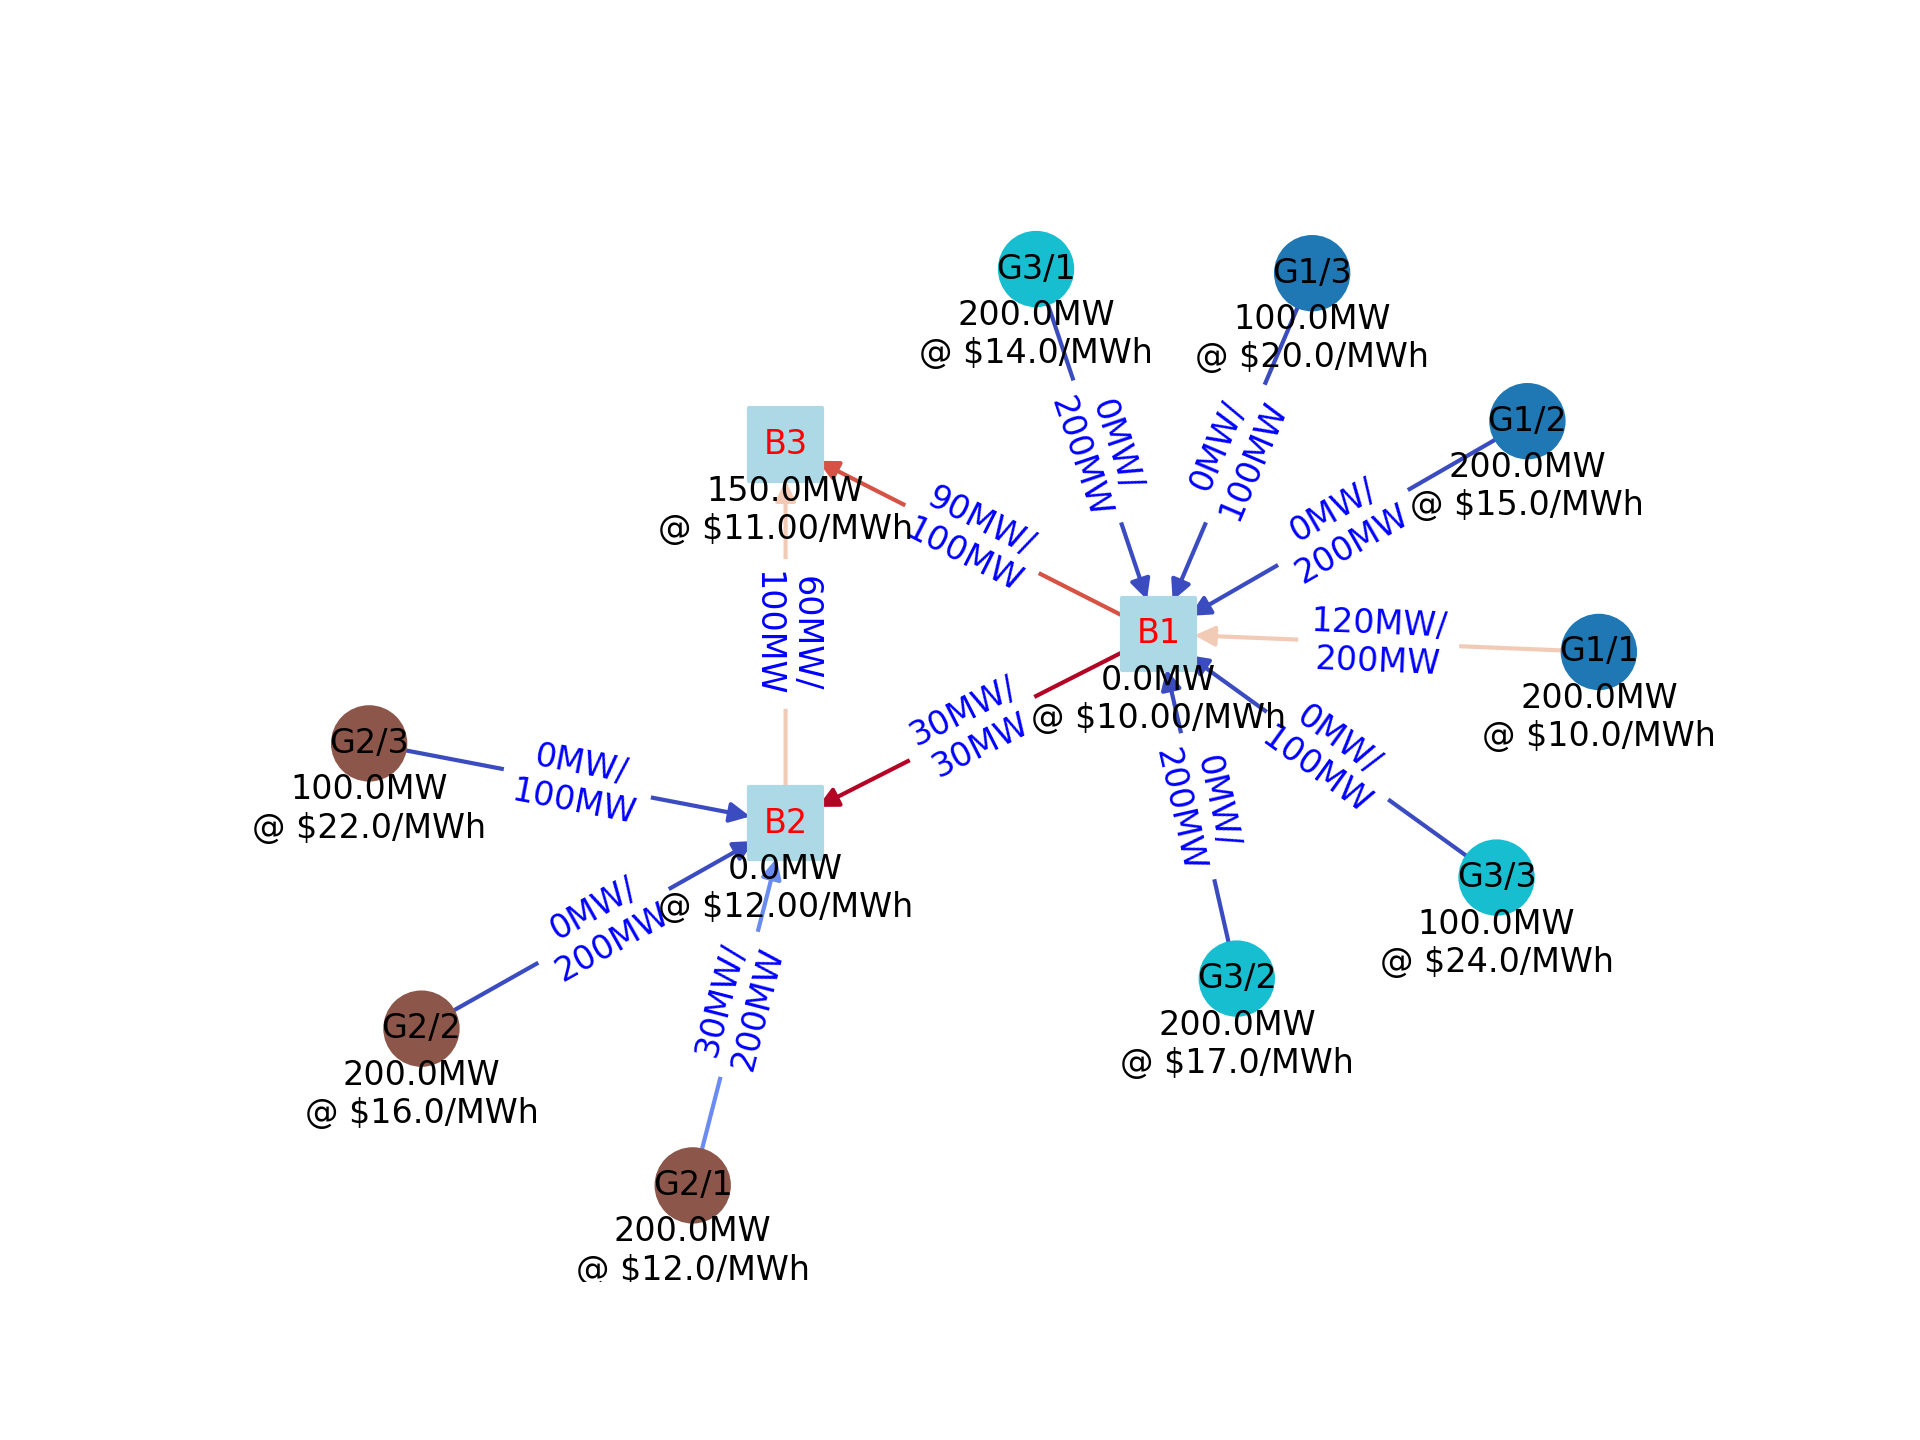
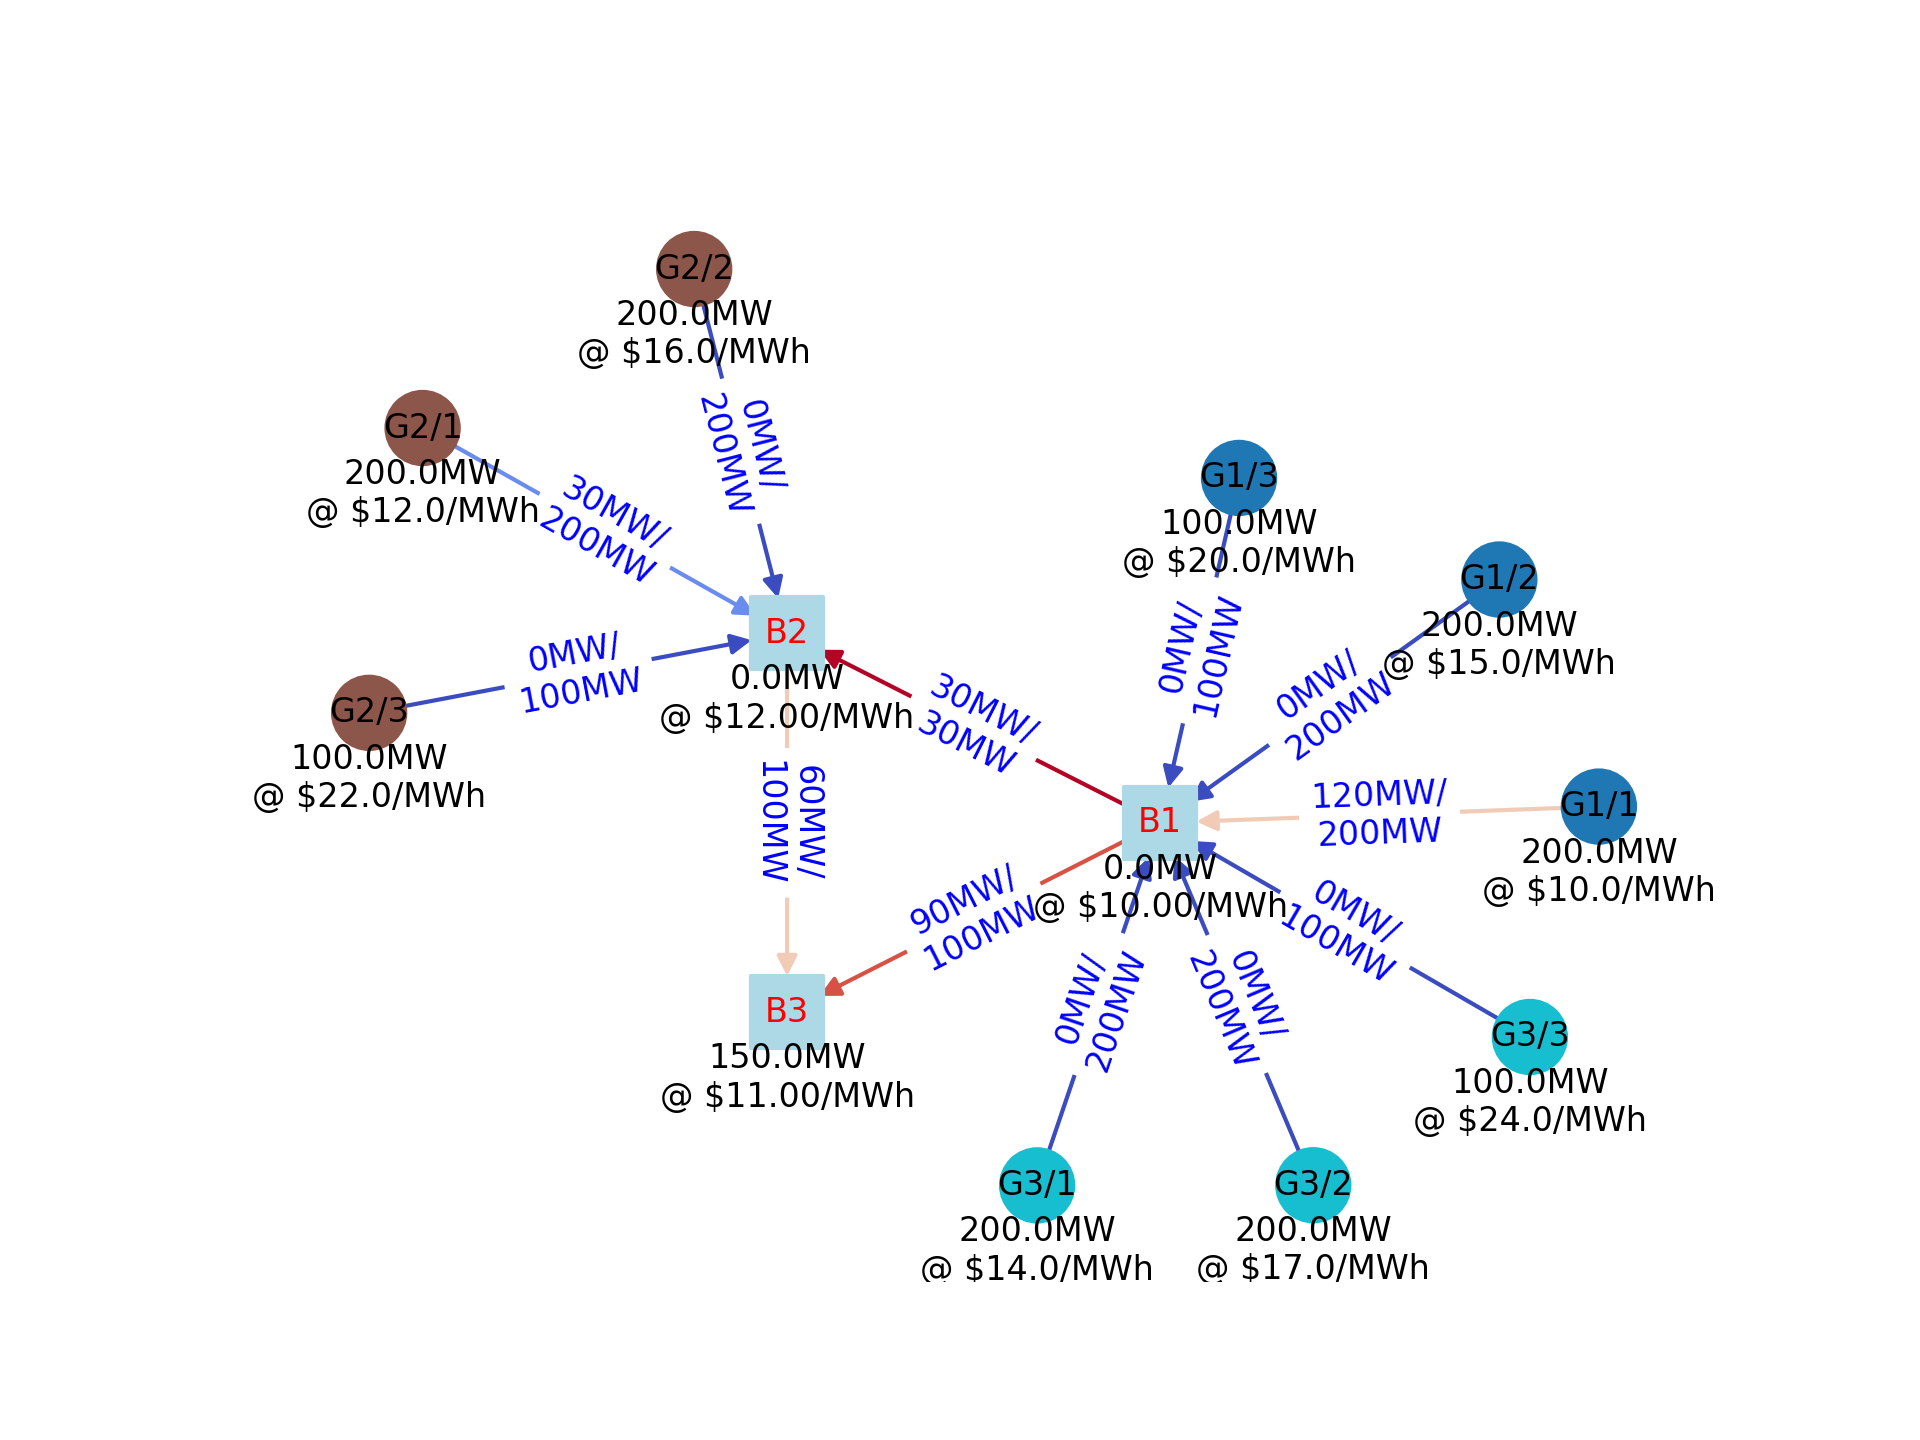
Minor tweaks in network.py

diff --git a/network.py b/network.py
@@ -11,43 +11,45 @@ import pyomo.environ as pyo
 from pyomo.core import Model
 from pyomo.core.expr.relational_expr import EqualityExpression
 
-# Prevent truncation of tall tables ==========================================
+# Prevent truncation of tall tables
 IPython.core.interactiveshell.InteractiveShell.ast_node_interactivity = "all"
 pl.Config.set_tbl_rows(-1)  # "unlimited rows"
 
-# Units of measure ===========================================================
+# Units of measure
 Id: TypeAlias = pl.String
 MW: TypeAlias = pl.Float64
 MWPerRad: TypeAlias = pl.Float64
 USDPerMWh: TypeAlias = pl.Float64
 
-# Network data ===============================================================
+# Network data
 buses = pl.DataFrame(
-    [
-        {"id": "B1", "load": 0.0},
-        {"id": "B2", "load": 0.0},
-        {"id": "B3", "load": 150.0},
-    ],
+    {
+        "id": ["B1", "B2", "B3"],
+        "load": [0.0, 0.0, 150.0],
+    },
     schema={"id": Id, "load": MW},
 )
-generators = pl.DataFrame(
-    [  # excludes "capacity", "cost"!
-        {"id": "G1", "node_id": "B1"},
-        {"id": "G2", "node_id": "B2"},
-        {"id": "G3", "node_id": "B1"},
-    ],
-    schema={"id": Id, "node_id": Id},
+generators = pl.DataFrame(  # excludes "capacity", "cost"!
+    {
+        "id": ["G1", "G2", "G3"],
+        "bus_id": ["B1", "B2", "B1"],
+    },
+    schema={"id": Id, "bus_id": Id},
 )
 
 lines = pl.DataFrame(
-    # fmt: off
-    [
-        {"from_bus_id": "B1", "to_bus_id": "B2", "susceptance": 1000, "capacity": 30.0},
-        {"from_bus_id": "B1", "to_bus_id": "B3", "susceptance": 1000, "capacity": 100.0},
-        {"from_bus_id": "B2", "to_bus_id": "B3", "susceptance": 1000, "capacity": 100.0},
-    ],
-    schema={"from_bus_id": Id, "to_bus_id": Id, "susceptance": MWPerRad, "capacity": MW},
-    # fmt: on
+    {
+        "from_bus_id": ["B1", "B1", "B2"],
+        "to_bus_id": ["B2", "B3", "B3"],
+        "susceptance": [1000, 1000, 1000],
+        "capacity": [30.0, 100.0, 100.0],
+    },
+    schema={
+        "from_bus_id": Id,
+        "to_bus_id": Id,
+        "susceptance": MWPerRad,
+        "capacity": MW,
+    },
 )
 
 # Ensure edge pairs are consistely ordered to simplify look-ups
@@ -58,18 +60,12 @@ lines = lines.with_columns(
 )
 
 offers = pl.DataFrame(
-    [
-        {"generator_id": "G1", "max_quantity": 200.0, "price": 10.00},
-        {"generator_id": "G2", "max_quantity": 200.0, "price": 12.00},
-        {"generator_id": "G3", "max_quantity": 200.0, "price": 14.00},
-        {"generator_id": "G1", "max_quantity": 100.0, "price": 20.00},
-        {"generator_id": "G2", "max_quantity": 100.0, "price": 22.00},
-        {"generator_id": "G3", "max_quantity": 100.0, "price": 24.00},
-        {"generator_id": "G1", "max_quantity": 200.0, "price": 15.00},
-        {"generator_id": "G2", "max_quantity": 200.0, "price": 16.00},
-        {"generator_id": "G3", "max_quantity": 200.0, "price": 17.00},
-    ],
-    schema={"id": Id, "generator_id": Id, "max_quantity": MW, "price": USDPerMWh},
+    {
+        "generator_id": ["G1", "G2", "G3", "G1", "G2", "G3", "G1", "G2", "G3"],
+        "max_quantity": [200.0, 200.0, 200.0, 100.0, 100.0, 100.0, 200.0, 200.0, 200.0],
+        "price": [10.00, 12.00, 14.00, 20.00, 22.00, 24.00, 15.00, 16.00, 17.00],
+    },
+    schema={"generator_id": Id, "max_quantity": MW, "price": USDPerMWh},
 ).sort(by=["generator_id", "price"])
 
 # Unique identifier for each offer
@@ -79,13 +75,13 @@ for column in [
 ]:
     offers = offers.with_columns(column)
 
-# Index sets =================================================================
+# Index sets
 Buses = range(buses.height)
 Lines = range(lines.height)
 Offers = range(offers.height)
 Generators = range(generators.height)
 
-# Model parameters ===========================================================
+# Model parameters
 model = pyo.ConcreteModel()
 model.loads = pyo.Param(
     Buses, initialize={b: buses[b, "load"] for b in Buses}, mutable=True
@@ -95,7 +91,7 @@ model.susceptances = pyo.Param(
 )
 
 
-# Model decision variables ===================================================
+# Model decision variables
 def supply_bounds(model: Model, o: int) -> tuple[float, float]:
     return (0.0, offers[o, "max_quantity"])
 
@@ -110,13 +106,13 @@ model.f = pyo.Var(Lines, bounds=flow_bounds)
 model.theta = pyo.Var(Buses, bounds=(-math.pi, +math.pi))
 model.dual = pyo.Suffix(direction=pyo.Suffix.IMPORT)
 
-# Model objective function ===================================================
+# Model objective function
 model.total_cost = pyo.Objective(
     expr=sum(offers[o, "price"] * model.p[o] for o in Offers),
     sense=pyo.minimize,
 )
 
-# Model constraints ==========================================================
+# Model constraints
 
 
 def network_incidence(b: int, ell: int) -> int:
@@ -129,7 +125,7 @@ def network_incidence(b: int, ell: int) -> int:
 
 
 def supply_incidence(b: int, g: int, o: int) -> bool:
-    node_generator: bool = buses[b, "id"] == generators[g, "node_id"]
+    node_generator: bool = buses[b, "id"] == generators[g, "bus_id"]
     generator_offer: bool = generators[g, "id"] == offers[o, "generator_id"]
     return node_generator and generator_offer
 
@@ -162,7 +158,7 @@ model.flow = pyo.Constraint(Lines, rule=flow_rule)
 model.reference_angle = pyo.Constraint(expr=model.theta[0] == 0.0)
 
 
-# Optimization ===============================================================
+# Optimization
 def optimize(model, **kwargs) -> float:
     """Solve the optimization problem encoded in model and return the objective value."""
     solver = pyo.SolverFactory("highs")
@@ -173,7 +169,7 @@ def optimize(model, **kwargs) -> float:
 
 optimize(model, tee=True)  # tee output to console
 
-# Transfer solution to tables ================================================
+# Transfer solution to tables
 quantity = [pyo.value(model.p[o]) for o in Offers]
 flow = [pyo.value(model.f[ell]) for ell in Lines]
 angles_deg = [pyo.value(model.theta[b]) * 180 / math.pi for b in Buses]
@@ -190,8 +186,8 @@ buses = buses.with_columns(
 lines = lines.with_columns(  # utilization of each line
     (pl.col("flow").abs() / pl.col("capacity")).alias("utilization")
 )
-offers = offers.join(  # node_id for each offer
-    generators[:, ("id", "node_id")], left_on="generator_id", right_on="id", how="left"
+offers = offers.join(  # bus_id for each offer
+    generators[:, ("id", "bus_id")], left_on="generator_id", right_on="id", how="left"
 )
 offers = offers.with_columns(  # utilization of each offer
     (pl.col("quantity") / pl.col("max_quantity")).alias("utilization")
@@ -202,7 +198,7 @@ print("lines -", lines)
 print("buses -", buses)
 print("generators -", generators)
 
-# Evaluate marginal prices ===================================================
+# Evaluate marginal prices
 
 
 def marginal_price_estimate(model, b: int, delta_load: float = 1.0) -> float:
@@ -220,7 +216,7 @@ marginal_price_estimates = [marginal_price_estimate(model, b) for b in Buses]
 print(f"marginal_price_estimates = {marginal_price_estimates}")
 assert marginal_price_estimates == marginal_prices
 
-# Helper functions for plotting ==============================================
+# Helper functions for plotting
 
 
 def mapvalues(f, keys, *values) -> dict:
@@ -254,10 +250,10 @@ def hybrid_layout(
     return nx.spring_layout(G, pos=pos, fixed=hubs, seed=seed, k=k)
 
 
-# Network definition for plotting =============================================
+# Network definition for plotting
 network = nx.DiGraph()
 
-# Node defnition ==============================================================
+# Node defnition
 bus_price_labels = mapvalues(
     "{:}MW\n@ ${:.2f}/MWh".format, buses["id"], buses["load"], buses["price"]
 )
@@ -279,7 +275,7 @@ network.add_nodes_from(buses["id"])
 network.add_nodes_from(offers["id"])
 node_labels = bus_price_labels | offer_price_labels
 
-# Edge defnition =============================================================
+# Edge defnition
 flow_labels = mapvalues(
     "{:.0f}MW/\n{:.0f}MW".format,
     zip(lines["from_bus_id"], lines["to_bus_id"]),
@@ -288,22 +284,22 @@ flow_labels = mapvalues(
 )
 supply_labels = mapvalues(
     "{:.0f}MW/\n{:.0f}MW".format,
-    zip(offers["id"], offers["node_id"]),
+    zip(offers["id"], offers["bus_id"]),
     offers["quantity"],
     offers["max_quantity"],
 )
 network.add_edges_from(zip(lines["from_bus_id"], lines["to_bus_id"]))
-network.add_edges_from(zip(offers["id"], offers["node_id"]))
+network.add_edges_from(zip(offers["id"], offers["bus_id"]))
 edge_utilization = [*lines["utilization"], *offers["utilization"]]
 edge_labels = flow_labels | supply_labels
 
-# Network layout =============================================================
+# Network layout
 scale = 50.0
 pos: dict = hybrid_layout(
     network, hub_scale=scale, satellite_scale=scale, k=scale * 1.0
 )
 
-# Network annotation =========================================================
+# Network annotation
 font_size = 8
 nx.draw_networkx_nodes(
     network, pos, nodelist=buses["id"], node_color=bus_colors, node_shape="s"
@@ -347,12 +343,12 @@ nx.draw_networkx_edge_labels(
     font_color="blue",
 )
 
-# Display network ============================================================
+# Display network
 plt.axis("off")
 plt.savefig("network.png", dpi=300)
 plt.show(block=False)
 
-# Path analysis ==============================================================
+# Path analysis
 
 path_rows: list[dict] = []
 path_edge_rows: list[dict] = []
@@ -427,7 +423,7 @@ print("path_edges -", path_edges)
 congested_path_edges = path_edges.filter(pl.col("is_congested"))
 print("congested path_edges -", congested_path_edges)
 
-input_nodes = set(offers[:, "node_id"])
+input_nodes = set(offers[:, "bus_id"])
 
 path_summary = paths.group_by(["target"]).agg(pl.all()).sort(["target"])
 congestion_summary = (
@@ -443,7 +439,9 @@ print("Constraints implied by congestion:")
 for target, coeffs, sources in congestion_summary.select(
     "target", "relative_susceptance", "source"
 ).iter_rows():
-    terms = [f"{c:.2f}*PTotal[{s}]" for c, s in zip(coeffs, sources) if s in input_nodes]
+    terms = [
+        f"{c:.2f}*PTotal[{s}]" for c, s in zip(coeffs, sources) if s in input_nodes
+    ]
     print(f"@ {target}: {' + '.join(terms)} == 0")
 
 print("Constraints implied unit increment:")
